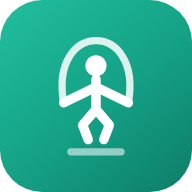
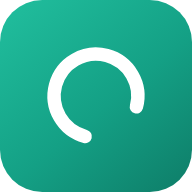
새 화면 3.3.4: 앱 아이콘 고리 모양

Changed region(s): [[0.2188, 0.1875, 0.7812, 0.8125]]

diff --git a/app.html b/app.html
@@ -10,7 +10,7 @@
 <meta name="mobile-web-app-capable" content="yes">
 <meta name="apple-mobile-web-app-title" content="체육 기록장">
 <script>(function(){try{if(/[?&]page=teacher/.test(location.search))document.getElementById("webManifest").href="manifest-teacher.webmanifest";}catch(e){}})();</script>
-<meta name="pe-web" content="3.3.3 · 2026-10-06 08:56 · server api 1">
+<meta name="pe-web" content="3.3.4 · 2026-10-06 12:14 · server api 1">
 <meta name="viewport" content="width=device-width, initial-scale=1">
 <link rel="stylesheet" href="https://cdn.jsdelivr.net/npm/@tabler/icons-webfont@3.19.0/dist/tabler-icons.min.css">
 <style>
@@ -358,7 +358,7 @@ button.say i{font-size:18px;}
 (function () {
   'use strict';
   var WEB = window.WEB = {
-    version: '3.3.3', needs: 1, built: '2026-10-06 08:56', history: [{"version":"3.3.3","date":"2026-10-06","notes":"줄넘기 \"학급 공동 목표\" 칸을 뺐어요(학급 현황·학생 화면·설정) — 우리 반 줄넘기 여행과 같은 숫자라 겹쳤어요. 설정값은 시트에 남아 있지만 쓰지 않아요. (화면만)"},{"version":"3.3.2","date":"2026-10-06","notes":"줄넘기 학급 현황: 여행·급수 패널 제목이 보는 범위를 따라가요 — 한 반이면 \"우리 반\", 한 학년 여러 반이면 \"우리 N학년\", 전체면 \"우리 학교\". (화면만)"},{"version":"3.3.1","date":"2026-10-05","notes":"급수 인증표: 학생 \"모두\" 체크를 이름 바로 옆으로 — 체크하면 그 줄 전부, 머리줄 \"모두\"는 반 전체. 항목을 하나씩 바꾸면 \"모두\" 칸이 따라와요. (화면만, 라이브러리 그대로)"},{"version":"3.3.0","date":"2026-10-05","notes":"3.3 — 학교 프로그램 v3.3.0(라이브러리 51)과 번호를 맞췄어요. 설정 → 모듈에 ▲▼(사이드바 모듈 순서, 저장하면 바로 반영 · 라이브러리 51 필요). 줄넘기: 급수 인증·인증서·상장·우리 반 여행 화면(라이브러리 50), 학급 현황 학생별 누적 표에 반 고르기와 오른쪽 열 높이에 맞춘 스크롤, 급수 인증표 머리줄 체크 정렬·\"모두\" 단추 토글, 기록 확인 \"모두 확인\", 줄넘기왕 공동 1위."},{"version":"3.2.14","date":"2026-10-04","notes":"전국 현황판 참여 중에는 \"학생 입력 자동 확인\"을 켤 수 없어요 — 선생님이 확인한 기록만 현황판에. (학교 프로그램 v3.1.8 · 라이브러리 49)"},{"version":"3.2.13","date":"2026-10-04","notes":"\"전국 현황판 참여\" 칸이 줄넘기 모든 화면에 보이던 것 — 줄넘기 설정 화면에만. 학교 프로그램이 아직 옛 판이면 칸을 숨겨요."},{"version":"3.2.12","date":"2026-10-04","notes":"줄넘기 설정에 \"전국 현황판 참여\" 칸, 참여 중이면 학생 줄넘기 화면에 \"전국 현황판 보기\" 링크. (학교 프로그램 v3.1.7 · 라이브러리 47)"},{"version":"3.2.11","date":"2026-10-04","notes":"색깔 매트 놀이터 리듬 스텝 새 모습 — 블록이 비트세이버처럼 앞으로 다가와요(매트 모양 그대로). \"위에서 떨어지기(네 줄)\"도 고를 수 있어요."},{"version":"3.2.10","date":"2026-10-04","notes":"학교가 \"새 배포\"로 주소가 바뀌면 이 기기도 새 주소로 저절로 옮겨 가요. 적용 순서 안내에 \"새 배포는 누르지 마세요\", 주소가 바뀌면 선생님 홈에 \"QR 다시 인쇄\" 알림. (학교 프로그램 v3.1.5 · 라이브러리 45)"},{"version":"3.2.9","date":"2026-10-04","notes":"(만든 선생님 학교 전용) 설정 왼쪽 AI 키 아래에 \"우리 프로그램을 쓰는 학교\" 칸 — 사용 학교 현황을 프로그램 안에서 바로 봐요. (학교 프로그램 v3.1.4 · 라이브러리 44)"},{"version":"3.2.7","date":"2026-10-03","notes":"설정 → 업데이트 아래 \"사용 학교 알림\" — 익명(기본) · 학교 이름도 · 알리지 않기 중에서 고를 수 있어요. 학생 정보는 보내지 않아요. (학교 프로그램 v3.1.3 · 라이브러리 43)"},{"version":"3.2.6","date":"2026-10-03","notes":"AI 키를 설정 한 곳에서(설정 왼쪽 아래 · 시험해 보기) — 줄넘기 응원 문구·매트 퀴즈·세특 AI가 모두 이 키를 쓰고, 앞으로 생길 AI 기능도 여기 키를 써요. (학교 프로그램 v3.1.1 · 라이브러리 41 필요)"},{"version":"3.2.4","date":"2026-10-03","notes":"세특 초안에 \"AI로 다듬기\"(Gemini 키) — 학생마다 기록 사실로 서로 다른 문장, 한 명씩 또는 고른 학생·반 전체를 차례로. 학생을 골라 글 지우기. (학교 프로그램 v3.1.1 · 라이브러리 41 필요)"},{"version":"3.2.3","date":"2026-10-03","notes":"선생님이 로그인하면 새 소식 창 — 새 화면이 바뀌면 \"이번에 바뀐 것\"을 한 번 보여 주고, 학교 프로그램(라이브러리) 새 버전이 나와 있으면 적용 방법도 함께 알려 줘요."},{"version":"3.2.2","date":"2026-10-01","notes":"홈 화면에 앱으로 추가 — 태블릿·휴대폰에서 아이콘 하나로 주소창 없이 앱처럼 열려요(로그인 화면 아래 \"홈 화면에 앱으로 추가\", 아이폰은 공유 → 홈 화면에 추가). 앱 파일을 기기에 기억해 두어 여는 것도 빨라져요.\n세특 초안(홈)과 새 학년도 시작(설정) 메뉴 — 학교 프로그램을 v3.1.0(라이브러리 40)으로 올리면 써요."},{"version":"3.2.1","date":"2026-10-01","notes":"색깔 매트 놀이터 화면을 밝은 카드 톤으로(판정기와 같은 톤) — 게임 설정·끝 화면이 밝아지고 시작 버튼은 코랄색. 게임 중 화면은 매트 색이 잘 보이도록 검은 바탕 그대로."},{"version":"3.2.0","date":"2026-10-01","notes":"휴대폰·태블릿 위 메뉴를 누르면 아래 하위 메뉴만 바뀌던 것 — 그 메뉴의 첫 화면도 바로 열려요."},{"version":"3.1.9","date":"2026-10-01","notes":"카메라 판정기 새 디자인(v0.7.3) — 밝은 카드 화면, 10회마다 축하, 전체 화면 버튼. 앱으로 돌아가기 줄도 밝게."},{"version":"3.1.8","date":"2026-10-01","notes":"초기화 화면에 한꺼번에 고르기 — \"모든 기록 선택(명단은 남김)\" · \"명단까지 전부 선택\" · \"선택 해제\", 모듈마다 \"이 모듈 모두\", 고른 개수 표시."},{"version":"3.1.7","date":"2026-10-01","notes":"로그인 직후 모듈 여러 개가 한꺼번에 자료를 부르며 모두 느려지던 것 — 3개씩 차례로 보내고, 선생님·학생이 누른 화면의 자료는 줄 맨 앞으로 먼저 불러와요."},{"version":"3.1.5","date":"2026-09-30","notes":"새 판이 나온 뒤 처음 열 때 화면을 두 번 불러오던 것을 한 번으로 — 새 판 확인을 먼저 하고 바로 새 판을 받아요.\n설정 → 업데이트 칸 아래에 \"최근 요청 속도\" (느릴 때 어디가 느린지 볼 수 있어요)."},{"version":"3.1.4","date":"2026-09-30","notes":"색깔 매트 놀이터: 게임 중에 휴대폰·태블릿 \"뒤로\"를 누르면 게임이 닫히고 음악도 멈춰요(예전엔 유튜브 음악이 계속 나오던 것 수정).\n핸드폰(세로)에서 카메라 판정기 글자가 겹치고 시작 버튼이 가려지던 것 수정 — 판정기 v0.7.2."},{"version":"3.1.2","date":"2026-09-30","notes":"줄넘기·건강체력교실 \"카메라로 뛰기\"가 새 탭 대신 앱 안 전체 화면으로 열려요. 위쪽 \"앱으로 돌아가기\"(또는 뒤로가기)로 닫으면 방금 기록이 바로 보여요.\n학생이 로그인하자마자 모듈을 누르면 빈 화면이 남던 것 수정.\n색깔 매트 놀이터 게임 화면에 Made by 도장.\n학생용 QR 이 화면 방식을 따라가요(\"새 화면\"이면 찍자마자 새 화면). QR 인쇄가 빈 종이로 나오던 것 수정.\n버전 번호를 하나로 — 설정·업데이트 칸의 번호가 곧 지금 쓰는 판이에요. 새 판이 나오면 앱을 열 때 저절로 새 판을 받아요(새로고침 요령이 필요 없음)."},{"version":"3.0.1","date":"2026-09-30","notes":"설정 → 접속 주소에 학생용 주소 QR(인쇄 가능).\n학교 프로그램(Shell.gs)에 doPost 가 없어도 사진·큰 저장이 조각으로 올라감."},{"version":"3.0.0","date":"2026-09-30","notes":"새 화면 첫 판 — 화면은 GitHub 한 곳에서, 저장은 지금처럼 학교 시트에.\n학교 주소를 기기에 기억 · 로그인 화면 아래 \"다른 학교로 바꾸기\".\n구글 웹앱 위쪽 안내 띠 없음."}],
+    version: '3.3.4', needs: 1, built: '2026-10-06 12:14', history: [{"version":"3.3.4","date":"2026-10-06","notes":"앱 아이콘을 민트 바탕 + 고리 모양으로(줄넘기 기록 관리와 같은 모양, 색만 다름). 이미 홈 화면에 추가한 기기는 지우고 다시 추가해야 새 아이콘이 보여요."},{"version":"3.3.3","date":"2026-10-06","notes":"줄넘기 \"학급 공동 목표\" 칸을 뺐어요(학급 현황·학생 화면·설정) — 우리 반 줄넘기 여행과 같은 숫자라 겹쳤어요. 설정값은 시트에 남아 있지만 쓰지 않아요. (화면만)"},{"version":"3.3.2","date":"2026-10-06","notes":"줄넘기 학급 현황: 여행·급수 패널 제목이 보는 범위를 따라가요 — 한 반이면 \"우리 반\", 한 학년 여러 반이면 \"우리 N학년\", 전체면 \"우리 학교\". (화면만)"},{"version":"3.3.1","date":"2026-10-05","notes":"급수 인증표: 학생 \"모두\" 체크를 이름 바로 옆으로 — 체크하면 그 줄 전부, 머리줄 \"모두\"는 반 전체. 항목을 하나씩 바꾸면 \"모두\" 칸이 따라와요. (화면만, 라이브러리 그대로)"},{"version":"3.3.0","date":"2026-10-05","notes":"3.3 — 학교 프로그램 v3.3.0(라이브러리 51)과 번호를 맞췄어요. 설정 → 모듈에 ▲▼(사이드바 모듈 순서, 저장하면 바로 반영 · 라이브러리 51 필요). 줄넘기: 급수 인증·인증서·상장·우리 반 여행 화면(라이브러리 50), 학급 현황 학생별 누적 표에 반 고르기와 오른쪽 열 높이에 맞춘 스크롤, 급수 인증표 머리줄 체크 정렬·\"모두\" 단추 토글, 기록 확인 \"모두 확인\", 줄넘기왕 공동 1위."},{"version":"3.2.14","date":"2026-10-04","notes":"전국 현황판 참여 중에는 \"학생 입력 자동 확인\"을 켤 수 없어요 — 선생님이 확인한 기록만 현황판에. (학교 프로그램 v3.1.8 · 라이브러리 49)"},{"version":"3.2.13","date":"2026-10-04","notes":"\"전국 현황판 참여\" 칸이 줄넘기 모든 화면에 보이던 것 — 줄넘기 설정 화면에만. 학교 프로그램이 아직 옛 판이면 칸을 숨겨요."},{"version":"3.2.12","date":"2026-10-04","notes":"줄넘기 설정에 \"전국 현황판 참여\" 칸, 참여 중이면 학생 줄넘기 화면에 \"전국 현황판 보기\" 링크. (학교 프로그램 v3.1.7 · 라이브러리 47)"},{"version":"3.2.11","date":"2026-10-04","notes":"색깔 매트 놀이터 리듬 스텝 새 모습 — 블록이 비트세이버처럼 앞으로 다가와요(매트 모양 그대로). \"위에서 떨어지기(네 줄)\"도 고를 수 있어요."},{"version":"3.2.10","date":"2026-10-04","notes":"학교가 \"새 배포\"로 주소가 바뀌면 이 기기도 새 주소로 저절로 옮겨 가요. 적용 순서 안내에 \"새 배포는 누르지 마세요\", 주소가 바뀌면 선생님 홈에 \"QR 다시 인쇄\" 알림. (학교 프로그램 v3.1.5 · 라이브러리 45)"},{"version":"3.2.9","date":"2026-10-04","notes":"(만든 선생님 학교 전용) 설정 왼쪽 AI 키 아래에 \"우리 프로그램을 쓰는 학교\" 칸 — 사용 학교 현황을 프로그램 안에서 바로 봐요. (학교 프로그램 v3.1.4 · 라이브러리 44)"},{"version":"3.2.7","date":"2026-10-03","notes":"설정 → 업데이트 아래 \"사용 학교 알림\" — 익명(기본) · 학교 이름도 · 알리지 않기 중에서 고를 수 있어요. 학생 정보는 보내지 않아요. (학교 프로그램 v3.1.3 · 라이브러리 43)"},{"version":"3.2.6","date":"2026-10-03","notes":"AI 키를 설정 한 곳에서(설정 왼쪽 아래 · 시험해 보기) — 줄넘기 응원 문구·매트 퀴즈·세특 AI가 모두 이 키를 쓰고, 앞으로 생길 AI 기능도 여기 키를 써요. (학교 프로그램 v3.1.1 · 라이브러리 41 필요)"},{"version":"3.2.4","date":"2026-10-03","notes":"세특 초안에 \"AI로 다듬기\"(Gemini 키) — 학생마다 기록 사실로 서로 다른 문장, 한 명씩 또는 고른 학생·반 전체를 차례로. 학생을 골라 글 지우기. (학교 프로그램 v3.1.1 · 라이브러리 41 필요)"},{"version":"3.2.3","date":"2026-10-03","notes":"선생님이 로그인하면 새 소식 창 — 새 화면이 바뀌면 \"이번에 바뀐 것\"을 한 번 보여 주고, 학교 프로그램(라이브러리) 새 버전이 나와 있으면 적용 방법도 함께 알려 줘요."},{"version":"3.2.2","date":"2026-10-01","notes":"홈 화면에 앱으로 추가 — 태블릿·휴대폰에서 아이콘 하나로 주소창 없이 앱처럼 열려요(로그인 화면 아래 \"홈 화면에 앱으로 추가\", 아이폰은 공유 → 홈 화면에 추가). 앱 파일을 기기에 기억해 두어 여는 것도 빨라져요.\n세특 초안(홈)과 새 학년도 시작(설정) 메뉴 — 학교 프로그램을 v3.1.0(라이브러리 40)으로 올리면 써요."},{"version":"3.2.1","date":"2026-10-01","notes":"색깔 매트 놀이터 화면을 밝은 카드 톤으로(판정기와 같은 톤) — 게임 설정·끝 화면이 밝아지고 시작 버튼은 코랄색. 게임 중 화면은 매트 색이 잘 보이도록 검은 바탕 그대로."},{"version":"3.2.0","date":"2026-10-01","notes":"휴대폰·태블릿 위 메뉴를 누르면 아래 하위 메뉴만 바뀌던 것 — 그 메뉴의 첫 화면도 바로 열려요."},{"version":"3.1.9","date":"2026-10-01","notes":"카메라 판정기 새 디자인(v0.7.3) — 밝은 카드 화면, 10회마다 축하, 전체 화면 버튼. 앱으로 돌아가기 줄도 밝게."},{"version":"3.1.8","date":"2026-10-01","notes":"초기화 화면에 한꺼번에 고르기 — \"모든 기록 선택(명단은 남김)\" · \"명단까지 전부 선택\" · \"선택 해제\", 모듈마다 \"이 모듈 모두\", 고른 개수 표시."},{"version":"3.1.7","date":"2026-10-01","notes":"로그인 직후 모듈 여러 개가 한꺼번에 자료를 부르며 모두 느려지던 것 — 3개씩 차례로 보내고, 선생님·학생이 누른 화면의 자료는 줄 맨 앞으로 먼저 불러와요."},{"version":"3.1.5","date":"2026-09-30","notes":"새 판이 나온 뒤 처음 열 때 화면을 두 번 불러오던 것을 한 번으로 — 새 판 확인을 먼저 하고 바로 새 판을 받아요.\n설정 → 업데이트 칸 아래에 \"최근 요청 속도\" (느릴 때 어디가 느린지 볼 수 있어요)."},{"version":"3.1.4","date":"2026-09-30","notes":"색깔 매트 놀이터: 게임 중에 휴대폰·태블릿 \"뒤로\"를 누르면 게임이 닫히고 음악도 멈춰요(예전엔 유튜브 음악이 계속 나오던 것 수정).\n핸드폰(세로)에서 카메라 판정기 글자가 겹치고 시작 버튼이 가려지던 것 수정 — 판정기 v0.7.2."},{"version":"3.1.2","date":"2026-09-30","notes":"줄넘기·건강체력교실 \"카메라로 뛰기\"가 새 탭 대신 앱 안 전체 화면으로 열려요. 위쪽 \"앱으로 돌아가기\"(또는 뒤로가기)로 닫으면 방금 기록이 바로 보여요.\n학생이 로그인하자마자 모듈을 누르면 빈 화면이 남던 것 수정.\n색깔 매트 놀이터 게임 화면에 Made by 도장.\n학생용 QR 이 화면 방식을 따라가요(\"새 화면\"이면 찍자마자 새 화면). QR 인쇄가 빈 종이로 나오던 것 수정.\n버전 번호를 하나로 — 설정·업데이트 칸의 번호가 곧 지금 쓰는 판이에요. 새 판이 나오면 앱을 열 때 저절로 새 판을 받아요(새로고침 요령이 필요 없음)."},{"version":"3.0.1","date":"2026-09-30","notes":"설정 → 접속 주소에 학생용 주소 QR(인쇄 가능).\n학교 프로그램(Shell.gs)에 doPost 가 없어도 사진·큰 저장이 조각으로 올라감."},{"version":"3.0.0","date":"2026-09-30","notes":"새 화면 첫 판 — 화면은 GitHub 한 곳에서, 저장은 지금처럼 학교 시트에.\n학교 주소를 기기에 기억 · 로그인 화면 아래 \"다른 학교로 바꾸기\".\n구글 웹앱 위쪽 안내 띠 없음."}],
     app: '', info: null, post: null, page: '', ready: null
   };
   var KEY = 'peapp.school', LIST = 'peapp.schools', THEME = 'peapp.theme.';

diff --git a/sw.js b/sw.js
@@ -1,4 +1,4 @@
-/* 새 화면 서비스 워커 — 홈 화면에 앱으로 설치할 수 있게 하고, 앱 파일을 기기에 기억해 둠 (v3.2.2, 화면 판 3.3.3)
+/* 새 화면 서비스 워커 — 홈 화면에 앱으로 설치할 수 있게 하고, 앱 파일을 기기에 기억해 둠 (v3.2.2, 화면 판 3.3.4)
    · app.html?v=판 : 판마다 주소가 달라 내용이 바뀌지 않음 → 기기에 있으면 바로 씀(빠름). 새 판을 받으면 옛 판은 지움
    · 그 밖의 같은 출처 파일(로더·아이콘·설명 파일) : 인터넷 먼저, 안 되면 기억한 것
    · ready.json 과 학교 서버(구글) 요청은 손대지 않음 — 기록은 늘 학교 시트로 바로 감 */

diff --git a/index.html b/index.html
@@ -13,7 +13,7 @@
 <script>
 (function () {
   var q = location.search.replace(/^\?/, ''), done = false;
-  function go(v) { if (done) return; done = true; location.replace('app.html?v=' + encodeURIComponent(v || '3.3.3') + (q ? '&' + q : '')); }
+  function go(v) { if (done) return; done = true; location.replace('app.html?v=' + encodeURIComponent(v || '3.3.4') + (q ? '&' + q : '')); }
   setTimeout(function () { go(''); }, 4000);   // 판 확인이 늦으면 그냥 열기
   fetch('ready.json?t=' + Date.now(), { cache: 'no-store' }).then(function (r) { return r.json(); }).then(function (j) { go(j.version); }, function () { go(''); });
 })();
